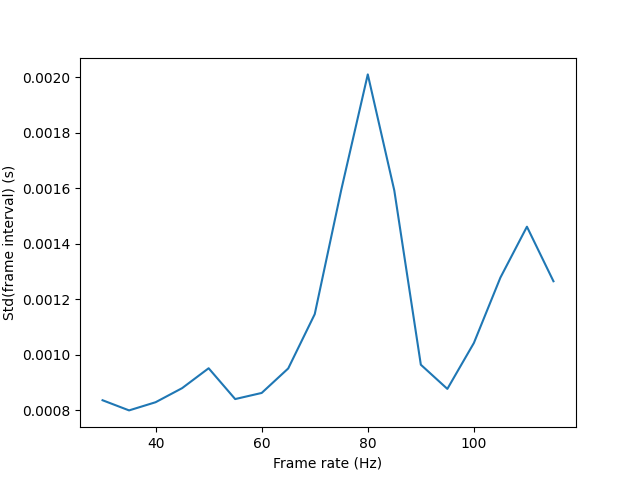
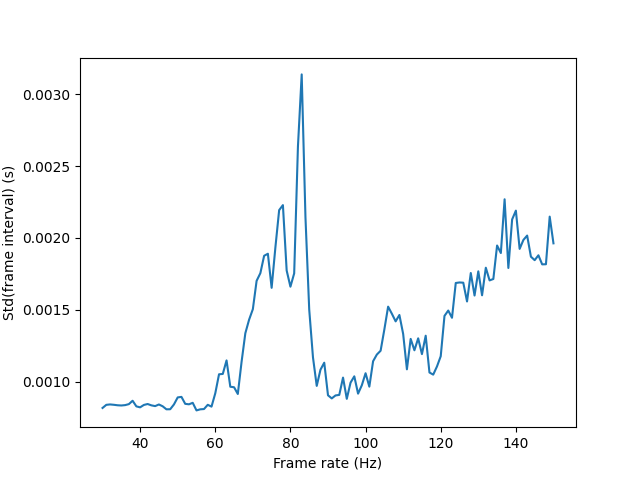
Updated figure

diff --git a/testCamAcq.py b/testCamAcq.py
@@ -86,18 +86,24 @@ def test(nFrames, frameRate):
     return np.std(acqTimes)
 
 def main():
-    
-    nFrames = 1000
-    frameRates = []
-    frameRates.extend(range(30,151,1))
+   
+    if False:
+        nFrames = 1000
+        frameRates = []
+        frameRates.extend(range(30,151,1))
 
-    stdTimes = [] 
-    for frameRate in frameRates:
-        print('Testing framerate: %d' % (frameRate))
-        stdTimes.append(test(nFrames,frameRate))
+        stdTimes = [] 
+        for frameRate in frameRates:
+            print('Testing framerate: %d' % (frameRate))
+            stdTimes.append(test(nFrames,frameRate))
 
-    with open('saveData.pkl', 'wb') as f:
-        pickle.dump([frameRates, stdTimes], f)
+        with open('saveData.pkl', 'wb') as f:
+            pickle.dump([frameRates, stdTimes], f)
+    else:
+        with open('saveData.pkl', 'rb') as f:
+            data = pickle.load(f)
+        frameRates = data[0]
+        stdTimes = data[1]
 
     plt.plot(frameRates, stdTimes)
     plt.xlabel('Frame rate (Hz)');
